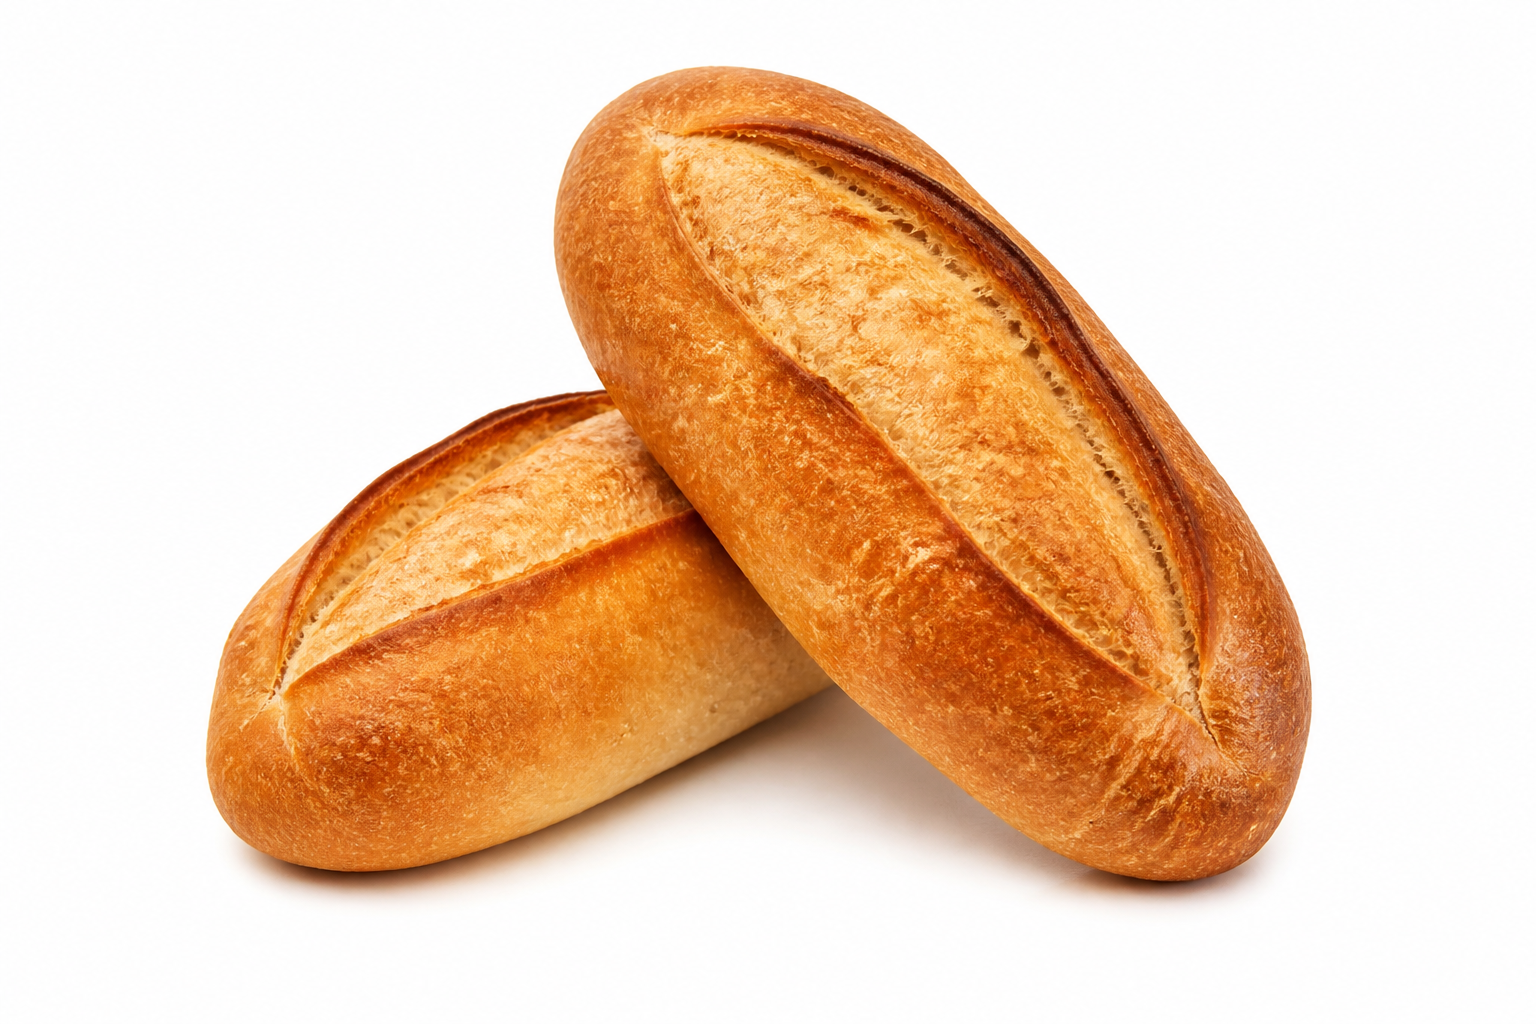
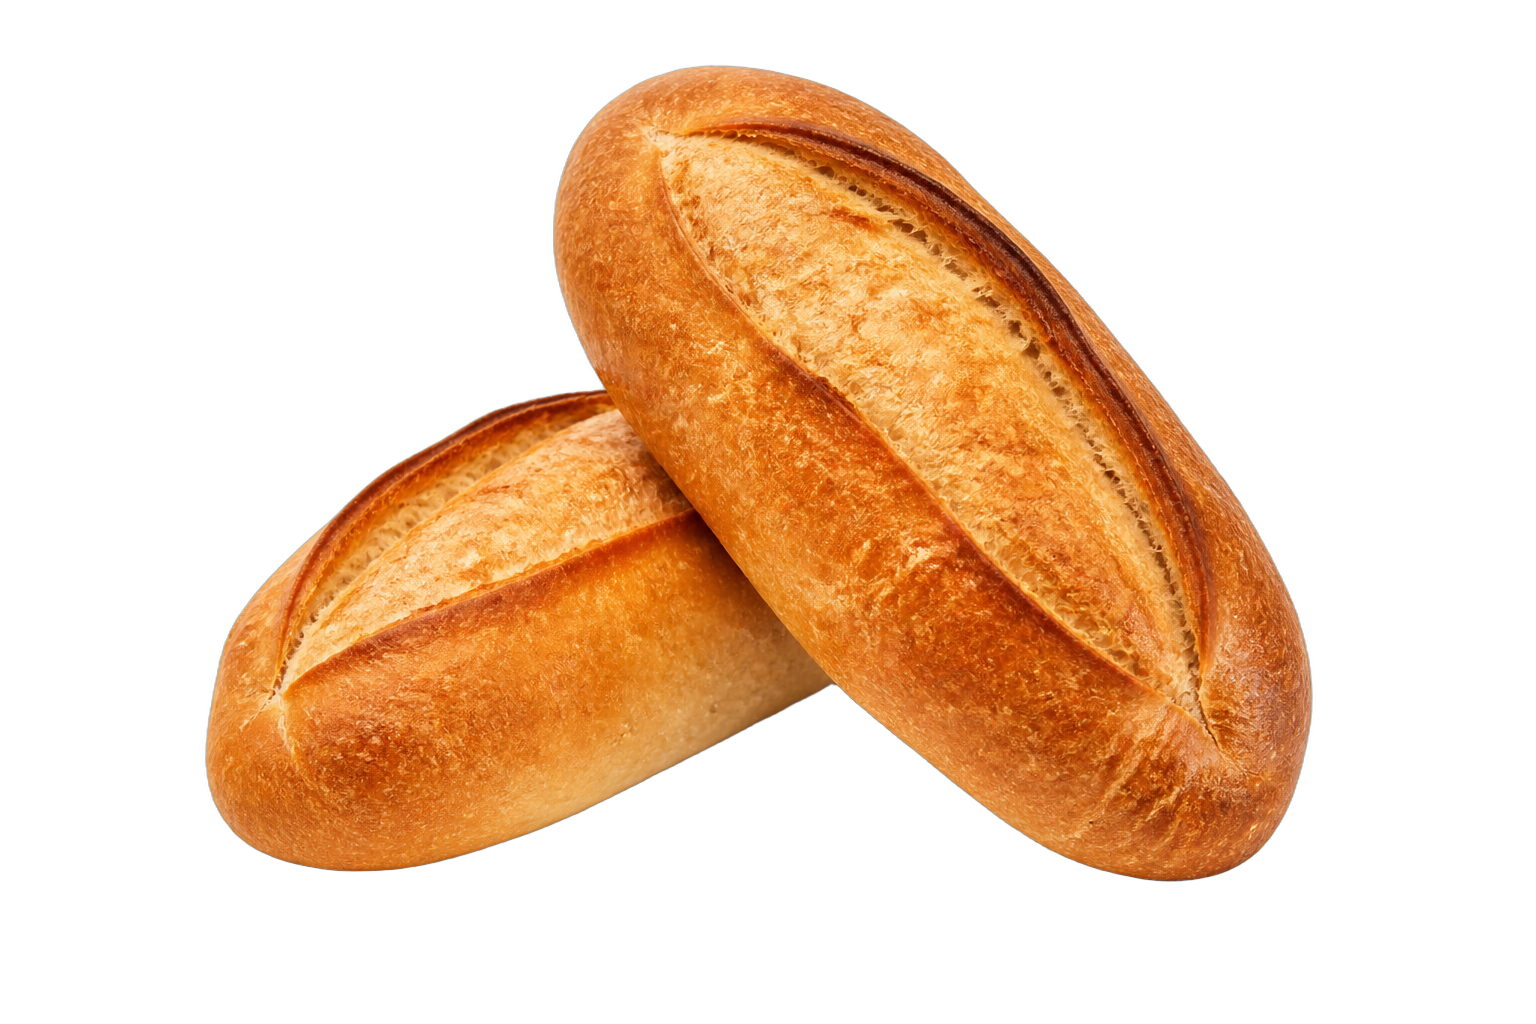
change backgound color of categories

Changed region(s): [[0.1562, 0.6562, 0.8438, 0.9062]]

diff --git a/src/app/(storefront)/categories/CategoriesContent.tsx b/src/app/(storefront)/categories/CategoriesContent.tsx
@@ -4,7 +4,7 @@ import Link from "next/link";
 import { useMemo } from "react";
 import { useSearchParams } from "next/navigation";
 import { useQuery } from "@tanstack/react-query";
-import { ChevronLeft, Search } from "lucide-react";
+import { ChevronLeft, ChevronRight, Search } from "lucide-react";
 import { getCategoriesAction } from "@/app/_actions/product-actions";
 import { CategoryProductList } from "@/app/(storefront)/_components/CategoryProductList";
 import { cn } from "@/app/utils/cn";
@@ -60,14 +60,14 @@ export default function CategoriesContent() {
         <AppIcon icon={Search} size="sm" />
         <span className="text-start">{t("categories.searchInCategories")}</span>
       </div>
-      <ul className="flex flex-wrap justify-start gap-2">
+      <ul className="space-y-2">
         {listCategories.map((cat) => (
           <li key={cat.id}>
             <Link
               href={isSkeleton ? "#" : `/categories/${cat.slug}`}
               dir={dir}
               className={cn(
-                "flex w-[4.5rem] shrink-0 flex-col items-center rounded-xl border border-border bg-surface px-1 pb-1.5 pt-1.5 sm:w-[5.25rem]",
+                "flex items-center gap-3 rounded-2xl border border-border bg-surface p-3",
                 isSkeleton && "skeleton pointer-events-none",
               )}
               onClick={(e) => {
@@ -75,27 +75,28 @@ export default function CategoriesContent() {
               }}
               aria-busy={isSkeleton}
             >
-              <span className="relative flex h-14 w-full items-center justify-center sm:h-16">
+              <span className="relative flex h-14 w-14 shrink-0 items-center justify-center overflow-hidden rounded-xl bg-transparent">
                 {!isSkeleton && cat.image_url ? (
                   <StorefrontImage
                     src={cat.image_url}
                     blurHash={cat.blur_hash}
                     alt=""
-                    width={64}
-                    height={64}
-                    sizes="64px"
+                    width={56}
+                    height={56}
+                    sizes="56px"
                     withBlur={false}
-                    className="max-h-full max-w-full object-contain"
+                    className="max-h-full max-w-full bg-transparent object-contain"
                   />
                 ) : (
                   !isSkeleton && (
-                    <AppIcon icon={getCategoryIcon(cat.slug)} size="md" className="text-accent" />
+                    <AppIcon icon={getCategoryIcon(cat.slug)} size="lg" className="text-accent" />
                   )
                 )}
               </span>
-              <span className="mt-1 line-clamp-2 w-full text-center text-[10px] font-medium leading-tight">
+              <span className="flex-1 text-start font-medium">
                 {resolveCategoryName(cat, locale)}
               </span>
+              <AppIcon icon={ChevronRight} size="sm" className="shrink-0 text-muted rtl:rotate-180" />
             </Link>
           </li>
         ))}

diff --git a/src/app/(storefront)/_components/ProductDetailClient.tsx b/src/app/(storefront)/_components/ProductDetailClient.tsx
@@ -84,7 +84,7 @@ export function ProductDetailClient({ product, isSkeleton = false }: Props) {
         <div className="min-h-0 flex-1 overflow-y-auto overflow-x-hidden overscroll-y-contain">
           <div className={cn("relative", STOREFRONT_CONTAINER_BLEED, isSkeleton && "skeleton")}>
             <div
-              className="relative aspect-[4/5] max-h-[46vh] min-h-[280px] w-full bg-white"
+              className="relative aspect-[4/5] max-h-[46vh] min-h-[280px] w-full bg-transparent"
               aria-busy={isSkeleton}
             >
             {product.image_url ? (
@@ -95,8 +95,8 @@ export function ProductDetailClient({ product, isSkeleton = false }: Props) {
                 fill
                 priority
                 sizes="100vw"
-                withBlur={!isSkeleton}
-                className="object-contain object-center"
+                withBlur={false}
+                className="bg-transparent object-contain object-center"
               />
             ) : (
               <div className="flex h-full items-center justify-center">
@@ -268,7 +268,7 @@ export function ProductDetailClient({ product, isSkeleton = false }: Props) {
         )}
         aria-busy={isSkeleton}
       >
-        <div className="target relative aspect-square overflow-hidden rounded-2xl bg-white lg:sticky lg:top-24 lg:self-start">
+        <div className="target relative aspect-square overflow-hidden rounded-2xl bg-transparent lg:sticky lg:top-24 lg:self-start">
           {product.image_url ? (
             <StorefrontImage
               src={product.image_url}
@@ -277,8 +277,8 @@ export function ProductDetailClient({ product, isSkeleton = false }: Props) {
               fill
               priority
               sizes="50vw"
-              withBlur={!isSkeleton}
-              className="object-contain"
+              withBlur={false}
+              className="bg-transparent object-contain"
             />
           ) : (
             <ProductPlaceholder size="2xl" />

diff --git a/src/components/ui/StorefrontImage.tsx b/src/components/ui/StorefrontImage.tsx
@@ -27,6 +27,11 @@ function isStaticImport(
   return typeof src === "object" && src !== null && "src" in src;
 }
 
+function isTransparentPng(src: string | StaticImageData) {
+  const path = (typeof src === "string" ? src : src.src).split("?")[0].toLowerCase();
+  return path.endsWith(".png");
+}
+
 export function StorefrontImage({
   src,
   blurHash,
@@ -53,6 +58,8 @@ export function StorefrontImage({
     blurDataUrl ??
     resolveBlurDataUrl(blurHash, IMAGE_BLUR_DATA_URL);
 
+  const skipOptimizer = isTransparentPng(imageSrc);
+
   const image = (
     <Image
       {...props}
@@ -61,10 +68,12 @@ export function StorefrontImage({
       fill={fill}
       width={!fill ? width : undefined}
       height={!fill ? height : undefined}
-      className={className}
-      placeholder={withBlur ? "blur" : undefined}
+      unoptimized={skipOptimizer || props.unoptimized}
+      className={cn("bg-transparent", className)}
+      style={{ backgroundColor: "transparent", ...props.style }}
+      placeholder={withBlur && !skipOptimizer ? "blur" : undefined}
       blurDataURL={
-        withBlur && !useStaticBlur ? remoteBlurDataUrl : undefined
+        withBlur && !skipOptimizer && !useStaticBlur ? remoteBlurDataUrl : undefined
       }
     />
   );

diff --git a/src/app/(storefront)/_components/ProductDealCard.tsx b/src/app/(storefront)/_components/ProductDealCard.tsx
@@ -53,7 +53,7 @@ export function ProductDealCard({
             −{discount}%
           </span>
         )}
-        <div className="relative flex h-32 items-center justify-center overflow-hidden rounded-xl bg-white sm:h-36">
+        <div className="relative flex h-32 items-center justify-center overflow-hidden rounded-xl bg-transparent sm:h-36">
           {product.image_url ? (
             <StorefrontImage
               src={product.image_url}
@@ -63,8 +63,8 @@ export function ProductDealCard({
               height={128}
               priority={priority}
               sizes="160px"
-              withBlur={!isSkeleton}
-              className="max-h-full max-w-full object-contain"
+              withBlur={false}
+              className="max-h-full max-w-full bg-transparent object-contain"
             />
           ) : (
             <ProductPlaceholder size="lg" />

diff --git a/src/app/(storefront)/_components/ProductCard.tsx b/src/app/(storefront)/_components/ProductCard.tsx
@@ -35,7 +35,7 @@ export function ProductCard({ product, compact, isSkeleton = false }: Props) {
         }}
         aria-busy={isSkeleton}
       >
-        <div className="relative h-14 w-14 shrink-0 overflow-hidden rounded-xl bg-white">
+        <div className="relative h-14 w-14 shrink-0 overflow-hidden rounded-xl bg-transparent">
           {product.image_url ? (
             <StorefrontImage
               src={product.image_url}
@@ -43,8 +43,8 @@ export function ProductCard({ product, compact, isSkeleton = false }: Props) {
               alt=""
               fill
               sizes="56px"
-              withBlur={!isSkeleton}
-              className="object-contain p-1"
+              withBlur={false}
+              className="bg-transparent object-contain p-1"
             />
           ) : (
             <ProductPlaceholder size="md" />

diff --git a/src/app/(storefront)/_components/CategoryGrid.tsx b/src/app/(storefront)/_components/CategoryGrid.tsx
@@ -57,7 +57,7 @@ export function CategoryGrid() {
               }}
               aria-busy={isSkeleton}
             >
-              <span className="relative flex h-14 w-full items-center justify-center sm:h-16">
+              <span className="relative flex h-14 w-full items-center justify-center bg-transparent sm:h-16">
                 {hasImage && cat.image_url ? (
                   <StorefrontImage
                     src={cat.image_url}
@@ -67,7 +67,7 @@ export function CategoryGrid() {
                     height={64}
                     sizes="64px"
                     withBlur={false}
-                    className="max-h-full max-w-full object-contain"
+                    className="max-h-full max-w-full bg-transparent object-contain"
                   />
                 ) : (
                   !isSkeleton && (
